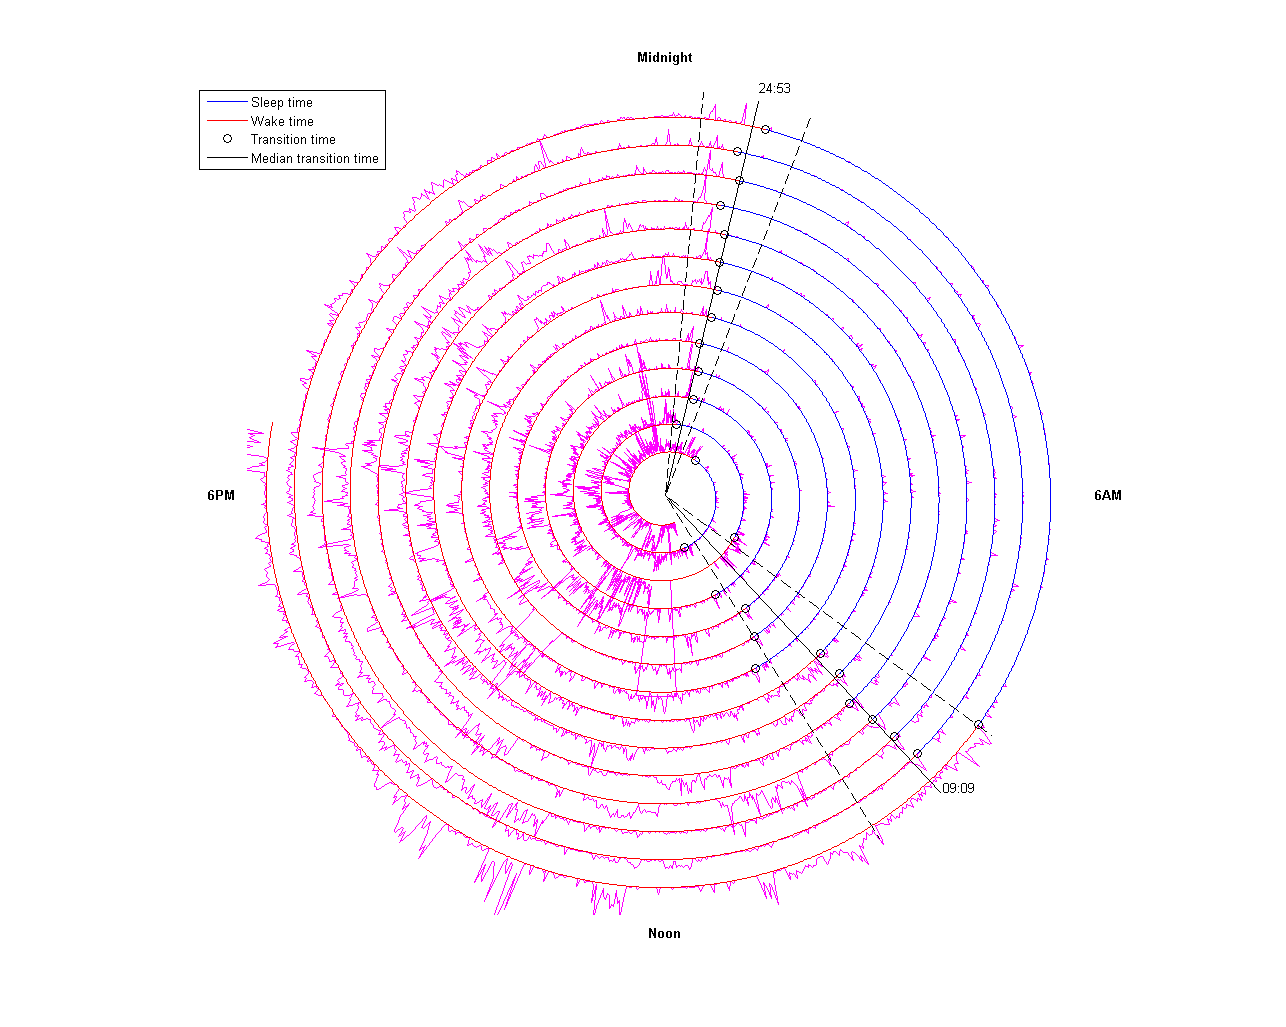
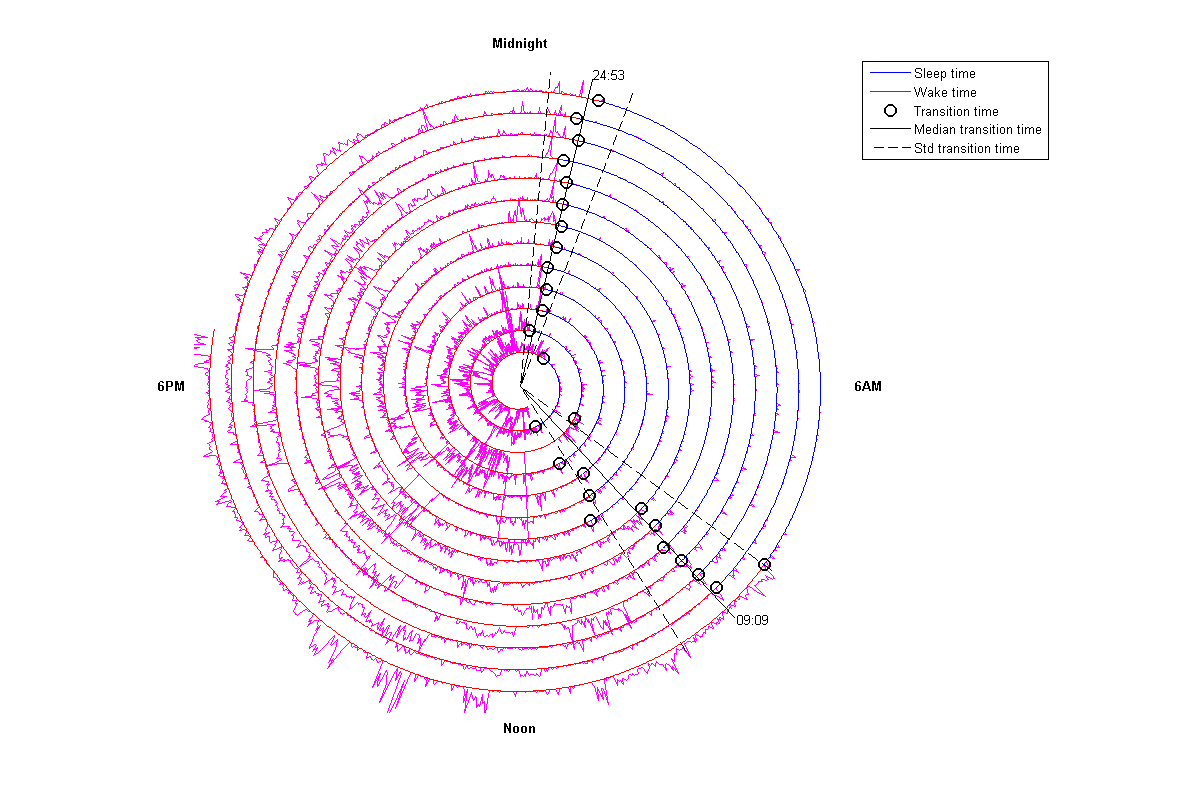
Fixing some features
Bigger transition marker.
Adding legend for std sleep/wake time

diff --git a/crc_ara_plotCircle.m b/crc_ara_plotCircle.m
@@ -46,7 +46,8 @@ if ~isempty(trueSW)
 end
 
 %% Start plot
-figure;
+hf = figure;
+set(hf,'Position',[500 300 1200 800])
 hold on;
 axis equal;
 axis([-nbDays-1 nbDays+1 -nbDays-1 nbDays+1])
@@ -83,10 +84,12 @@ end
 SWt_ang = angCoord(l_SWt);
 SWt_rad = radCoord(l_SWt);
 p(3) = crc_ara_drawCircle(origin,SWt_rad,SWt_ang,'ko');
+set(p(3),'MarkerSize',10,'LineWidth',2)
 if ~isempty(trueSW)
     trueSWt_ang = angCoord(ltrue_SWt);
     trueSWt_rad = radCoord(ltrue_SWt);
-    p(5) = crc_ara_drawCircle(origin,trueSWt_rad,trueSWt_ang,'go');
+    p(6) = crc_ara_drawCircle(origin,trueSWt_rad,trueSWt_ang,'go');
+    set(p(6),'MarkerSize',10,'LineWidth',2)
 end
 
 %% Get mean S/W angles and plot fitted line + standard deviation
@@ -97,7 +100,7 @@ v2 = mod(angWake-pi/2,-2*pi)+pi/2;
 if std(v1)>std(v2), angWake = v2; else angWake = v1; end
 m_angWake = median(angWake); s_angWake = std(angWake);
 p(4) = crc_ara_drawCircle(origin,[0 line_length],[m_angWake m_angWake],'k');
-crc_ara_drawCircle(origin,[0 line_length],[m_angWake+s_angWake m_angWake+s_angWake],'--k');
+p(5) = crc_ara_drawCircle(origin,[0 line_length],[m_angWake+s_angWake m_angWake+s_angWake],'--k');
 crc_ara_drawCircle(origin,[0 line_length],[m_angWake-s_angWake m_angWake-s_angWake],'--k');
 if ~isempty(trueSW)
     angtrueWake  = angCoord(ltrue_S2Wt); %#ok<*FNDSB>
@@ -106,7 +109,7 @@ if ~isempty(trueSW)
     v2 = mod(angtrueWake-pi/2,-2*pi)+pi/2;
     if std(v1)>std(v2), angtrueWake = v2; else angtrueWake = v1; end
     m_angtrueWake = median(angtrueWake); 
-    p(6) = crc_ara_drawCircle(origin,[0 line_length],[m_angtrueWake m_angtrueWake],'g');
+    p(7) = crc_ara_drawCircle(origin,[0 line_length],[m_angtrueWake m_angtrueWake],'g');
 end
 
 angSleep = angCoord(l_W2St);
@@ -131,11 +134,11 @@ end
 %% Add median w/s times
 t_wake = -m_angWake/2/pi*24+6;
 xy_t_wake = [cos(m_angWake) sin(m_angWake)]*(line_length+.2);
-text(xy_t_wake(1),xy_t_wake(2),sprintf('%02d:%02d\n', ...
+text(xy_t_wake(1),xy_t_wake(2),sprintf('%02d:%02d', ...
         fix(t_wake),round((t_wake-fix(t_wake))*60)))
 t_sleep = -m_angSleep/2/pi*24+6;
 xy_t_sleep = [cos(m_angSleep) sin(m_angSleep)]*(line_length+.2);
-text(xy_t_sleep(1),xy_t_sleep(2),sprintf('%02d:%02d\n', ...
+text(xy_t_sleep(1),xy_t_sleep(2),sprintf('%02d:%02d', ...
         fix(t_sleep),round((t_sleep-fix(t_sleep))*60)))
 
 %% Add some text informations
@@ -152,11 +155,13 @@ axis off
 
 if isempty(trueSW)
     legend(p, 'Sleep time', 'Wake time', 'Transition time', ...
-            'Median transition time', 'Location','Best');
+            'Median transition time', 'Std transition time', ...
+            'Location','BestOutside');
 else
     legend(p, 'Sleep time', 'Wake time', 'Transition time', ...
-            'Median transition time', 'Ref. transition time', ... 
-            'Median ref. transition time', 'Location','Best');    
+            'Median transition time', 'std transition time', ...
+            'Ref. transition time', 'Median ref. transition time', ... 
+            'Location','BestOutside');    
 end
 
 end
